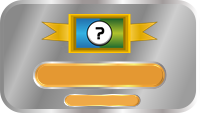
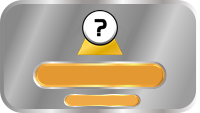
Modify Curator award

Changed region(s): [[0.21, 0.0796, 0.81, 0.5044]]

diff --git a/src/awards/amazonisPlanitia/Curator.ts b/src/awards/amazonisPlanitia/Curator.ts
@@ -1,13 +1,20 @@
-import {CardType} from "../../cards/CardType";
+import {Tags} from "../../cards/Tags";
 import {Player} from "../../Player";
 import {IAward} from "../IAward";
 
 export class Curator implements IAward {
   public name: string = 'Curator';
-  public description: string = 'Most tags on blue and green cards';
+  public description: string = 'Most played tags of any one type';
 
   public getScore(player: Player): number {
-    const validCardTypes = [CardType.ACTIVE, CardType.AUTOMATED];
-    return player.playedCards.filter((card) => validCardTypes.includes(card.cardType)).map((card) => card.tags.length).reduce((a, b) => a + b, 0);
+    const validTags = [Tags.ANIMAL, Tags.BUILDING, Tags.CITY, Tags.EARTH, Tags.ENERGY, Tags.JOVIAN, Tags.MICROBE, Tags.MOON, Tags.PLANT, Tags.SCIENCE, Tags.SPACE, Tags.VENUS];
+    let score: number = 0;
+
+    validTags.forEach((tag) => {
+      const tagCount = player.getTagCount(tag, false, false);
+      if (tagCount > score) score = tagCount;
+    });
+
+    return score;
   }
 }

diff --git a/src/MilestoneAwardSelector.ts b/src/MilestoneAwardSelector.ts
@@ -379,9 +379,11 @@ export namespace MilestoneAwardSelector {
       bind(Zoologist, Economizer, 5);
       bind(Zoologist, Adapter, 6);
 
-      bind(Curator, Tycoon, 8);
-      bind(Curator, Magnate, 8);
-      bind(Curator, Diversifier, 3);
+      bind(Curator, Magnate, 3);
+      bind(Curator, Diversifier, 2);
+      bind(Curator, Scientist, 5);
+      bind(Curator, Contractor, 8);
+      bind(Curator, SpaceBaron, 7);
 
       bind(Tourist, Highlander, 1);
 
